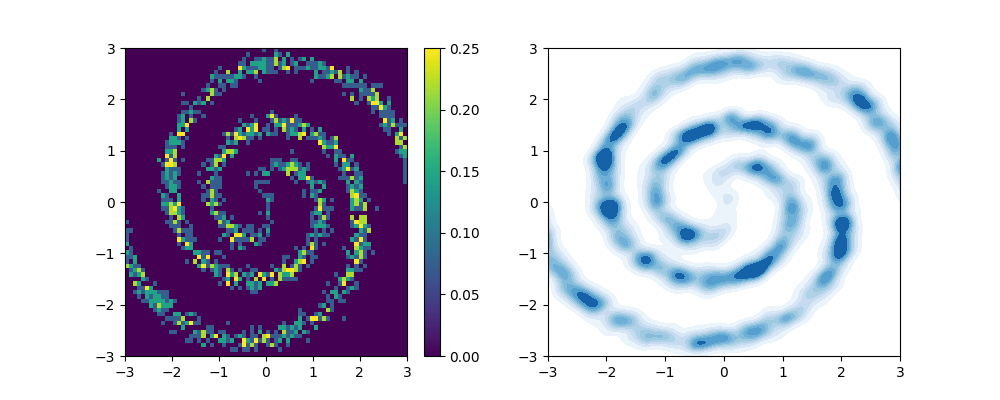
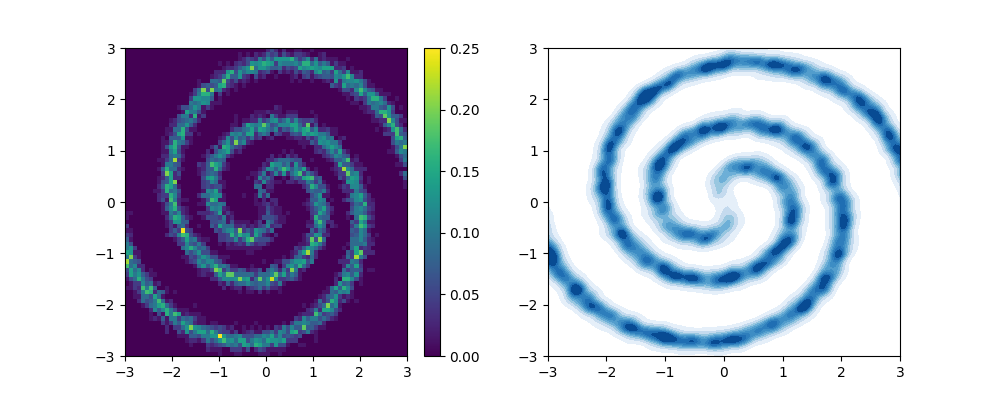
generic commit

Changed region(s): [[0.527, 0.12, 0.899, 0.9], [0.124, 0.12, 0.434, 0.9]]

diff --git a/scripts/transport/kvae_flow.py b/scripts/transport/kvae_flow.py
@@ -177,7 +177,7 @@ class CondTransportKernel(nn.Module):
 
         eps = self.params['noise_eps']
         self.train_idx = self.get_train_idx()
-        self.Y_eta = eps * geq_1d(torch.tensor(base_params['Y_eta'], device=self.device, dtype=self.dtype))
+        self.Y_eta = eps * geq_1d(torch.tensor(base_params['Y_eta'], device=self.device, dtype=self.dtype))[self.train_idx]
         self.X_mu =  geq_1d(torch.tensor(base_params['X_mu'], device=self.device, dtype=self.dtype))
 
         self.Y_mean = deepcopy(self.Y_eta)
@@ -190,7 +190,7 @@ class CondTransportKernel(nn.Module):
 
         self.Y_mu = geq_1d(torch.tensor(base_params['Y_mu'], device=self.device, dtype=self.dtype))
         self.Y_target = torch.concat([deepcopy(self.X_mu), self.Y_mu], dim=1)
-        self.X_mu = geq_1d(torch.tensor(base_params['X_mu'], device=self.device, dtype=self.dtype))
+
 
         self.X_var = torch.concat([self.X_mu, shuffle(self.Y_eta), self.Y_mean + self.Y_var], dim=1)[self.train_idx]
         self.X_mean = torch.concat([self.X_mu, self.Y_mean], dim=1)[self.train_idx]
@@ -228,10 +228,10 @@ class CondTransportKernel(nn.Module):
         self.params['mmd_kernel_params']['l'] *= l_scale(self.Y_mu_test).cpu()
 
         self.alpha_z = self.p_vec(self.Nx)
-        self.alpha_y = self.p_vec(min(self.Ny, 20000))
+        self.alpha_y = self.p_vec(self.Ny)
 
         if self.params['E_mmd_YY'] == 0:
-            self.E_mmd_YY = self.alpha_y.T @ self.mmd_kernel(self.Y_target[:20000], self.Y_target[:20000]) @ self.alpha_y
+            self.E_mmd_YY = self.alpha_y.T @ self.mmd_kernel(self.Y_target, self.Y_target) @ self.alpha_y
             self.params['E_mmd_YY'] = float(self.E_mmd_YY.detach().cpu())
         else:
             self.E_mmd_YY = self.params['E_mmd_YY']
@@ -245,11 +245,12 @@ class CondTransportKernel(nn.Module):
         self.reg_lambda = self.params['reg_lambda'] * self.mmd_lambda
         self.iters = deepcopy(self.params['iters'])
 
+
     def get_train_idx(self):
         batch_size = self.params['batch_size']
-        N = len(self.params['Y_mu'])
         if True:
             return torch.tensor(list(range(batch_size))).long()
+        N = len(self.params['Y_mu'])
         fixed_idx = list(range(int(batch_size*.95)))
         inducing_idx = random.sample(list(range(int(batch_size* 1 ), N)), k = int(batch_size* 0.0))
         train_idx = torch.tensor(fixed_idx + inducing_idx).long()
@@ -356,7 +357,7 @@ class CondTransportKernel(nn.Module):
 
     def loss_reg(self):
         Z_mean = self.Z_mean
-        Z_var = self.Z_var * float(self.approx)
+        Z_var = self.Z_var
 
         reg_1 =  torch.trace(Z_mean.T @ self.fit_kXXmean_inv @ Z_mean)
         reg_2 =  torch.trace(Z_var.T @ self.fit_kXXvar_inv @ Z_var)
@@ -542,7 +543,7 @@ def conditional_transport_exp(ref_gen, target_gen, N = 10000, n_iter = 1001, vma
 
      gen_sample = compositional_gen(trained_models, ref_sample, target_sample, idx_dict)
 
-     test_mmd = trained_models[-1].mmd(gen_sample, target_sample) / (trained_models[0].mmd(target_sample, ref_sample))
+     test_mmd = trained_models[0].mmd(gen_sample, target_sample) / (trained_models[0].mmd(target_sample, ref_sample))
      print(f'Normalized test mmd was {format(float(test_mmd.detach().cpu()),4)}')
 
      if len(process_funcs):
@@ -723,10 +724,10 @@ def vl_exp(N=10000, n_iter=51, Yd=18, normal=True, exp_name='kvl_exp2', n_transp
 
 def run():
     ref_gen = sample_spirals
-    N = 2000
+    N = 5000
     batch_size = 2000
     two_d_exp(ref_gen, sample_spirals, N=N, n_iter=49, plt_range=[[-3, 3], [-3, 3]], process_funcs=[],
-              skip_idx=1, slice_vals=[], slice_range=[-3,3], exp_name='exp', n_transports=200, vmax=.25,
+              skip_idx=1, slice_vals=[-1,0,1], slice_range=[-3,3], exp_name='exp', n_transports=200, vmax=.15,
               batch_size = batch_size, reg_lambda= 1e-5, N_plot = 10000)
 
 
